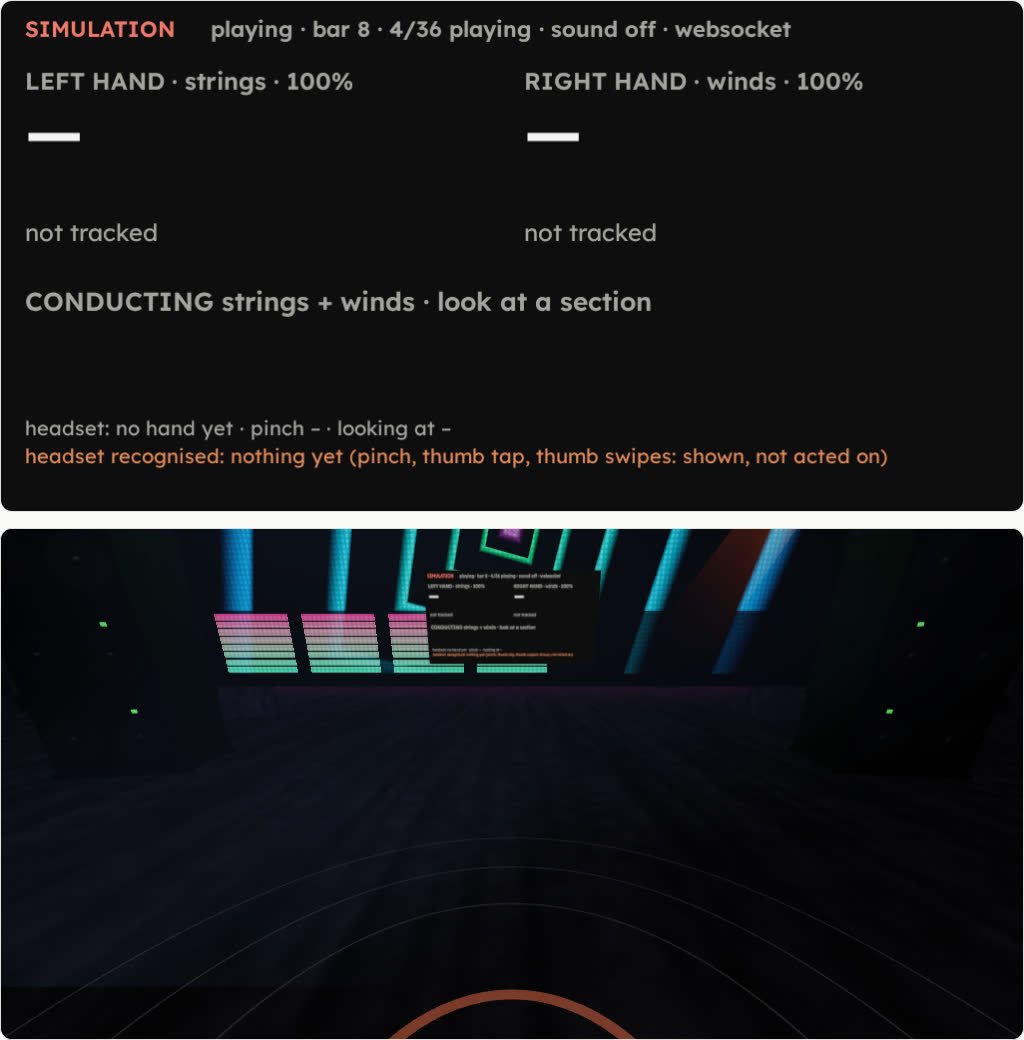
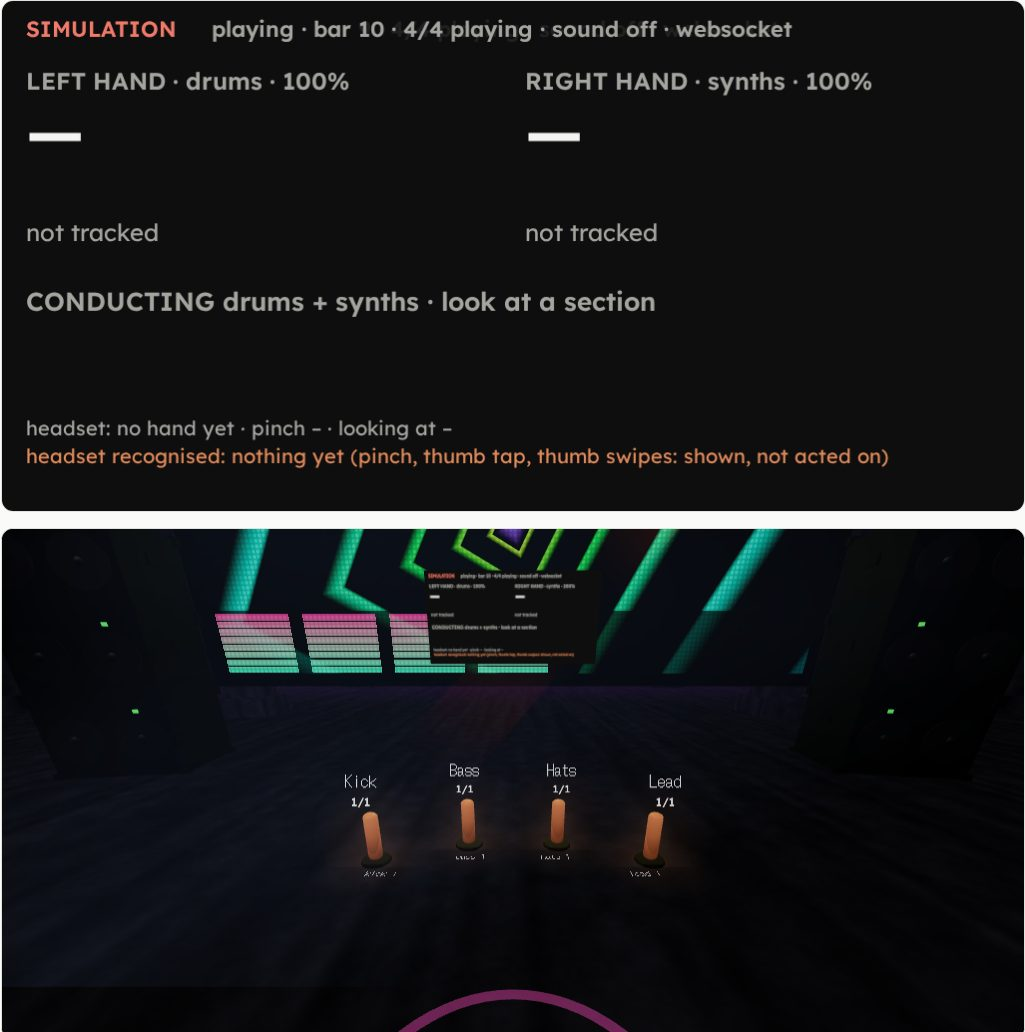
Let the conductor's page take its seats, groups and world from the service
The rave's /hands page showed the orchestra: the three rows on the floor,
"strings" and "winds" for the hands, "4/36 playing", and no lantern for
the four chairs, because room.js and hands.js carried the orchestra's
seating chart, groups and total. The page now reads them from the service:
GET /api/score carries each section's family and the seating chart (the
orchestra's, moved into its config.json; the rave has none and the page
stands its sections on one arc ahead, the band), GET /api/hands names the
groups a hand conducts (the families: drums and synths in the rave) and
the world the page shows when its URL names none (the rave). The rows on
the floor are drawn for the rows the chart seats, so the rave has none.
The panel counts the chairs the state has. The orchestra's page is
unchanged, checked headless on both services; the rave's screenshot in
docs is the fixed page.

diff --git a/examples/orchestra/score-service/static/hands.js b/examples/orchestra/score-service/static/hands.js
@@ -12,16 +12,21 @@ import { rave } from "/static/rave.js";
 const $ = (id) => document.getElementById(id);
 const panel = $("panel"), ctx = panel.getContext("2d");
 const HOLD_MS = 300, SIDES = ["left", "right"];
-const GROUP = { left: "strings", right: "winds" };
+let groups = { left: "strings", right: "winds", both: "all" };  // the groups a hand conducts: the service's (GET /api/hands), these until it answers
 const steady = new Steady(HOLD_MS);
 let live = { left: null, right: null }, last = null, orchestra = null, xr = null, dirty = true;
 let soundOn = false, soundAt = -1, soundState = "off", heightAt = 0;
-const SECTIONS = { strings: ["vn1", "vn2", "va", "vc", "cb"], winds: ["ob", "hn"] };
-let gains = { strings: 1, winds: 1 }, instruments = [];
+const SECTIONS = {};  // each group's sections: the instruments' (GET /api/hands) and each family's (the state)
+let gains = {}, instruments = [];
 // The instruments and their slices of the arc, as the service has them.
 fetch("/api/hands").then((r) => r.json()).then((v) => {
   instruments = v.instruments || [];
   for (const i of instruments) { SECTIONS[i.id] = i.sections; gains[i.id] = 1; }
+  if (v.groups) groups = { ...groups, ...v.groups };
+  // the service's world when the URL names none (the rave's page is the rave)
+  if (v.world && !params.get("world") && $("world").querySelector(`option[value="${v.world}"]`)) { $("world").value = v.world; if (preview) setWorld(v.world); }
+  hint();
+  draw();
 }).catch(() => {});
 const instrumentAt = (aim) => (aim == null ? null : instruments.find((i) => i.from <= aim && aim < i.to) || null);
 const params = new URLSearchParams(location.search), preview = params.get("view") === "1";
@@ -29,6 +34,10 @@ if (params.get("sim") === "1") document.body.classList.add("simulate");
 if (params.get("world")) $("world").value = params.get("world");  // ?world=zen|meadow|room picks what is around the orchestra
 
 // --- the panel ------------------------------------------------------------
+
+function hint() {
+  $("hint").textContent = `Look at a section: your gestures act on it. A short pinch locks it, another frees it. Nothing selected: left hand ${groups.left}, right hand ${groups.right}. Both hands: everyone.`;
+}
 
 function draw() {
   const w = panel.width, h = panel.height, ink = "#F4F4F2", muted = "#A5A5A0", copper = "#E08A5A", red = "#F07B6B";
@@ -40,13 +49,13 @@ function draw() {
   ctx.fillText("SIMULATION", 24, 18);
   ctx.fillStyle = muted;
   const o = orchestra;
-  ctx.fillText((o ? `${o.status}${o.status === "playing" ? ` · bar ${o.bar}${o.countIn ? ` · count-in ${o.countIn}` : ""} · ${o.playing}/36 playing` : ""}` : "orchestra: …") + ` · sound ${soundState} · ${link}`, 210, 18);
+  ctx.fillText((o ? `${o.status}${o.status === "playing" ? ` · bar ${o.bar}${o.countIn ? ` · count-in ${o.countIn}` : ""} · ${o.playing}/${o.total} playing` : ""}` : "orchestra: …") + ` · sound ${soundState} · ${link}`, 210, 18);
   SIDES.forEach((side, i) => {
     const x = 24 + i * 500, read = last?.read?.[side], jev = last?.jev?.answers?.[side], m = live[side];
     ctx.fillStyle = muted;
     ctx.font = "600 24px Lexend, sans-serif";
-    const tgt = target(), group = tgt ? tgt.id : GROUP[side];
-    ctx.fillText(`${side.toUpperCase()} HAND · ${tgt ? tgt.name : GROUP[side]} · ${Math.round(100 * (gains[group] ?? 1))}%`, x, 70);
+    const tgt = target(), group = tgt ? tgt.id : groups[side];
+    ctx.fillText(`${side.toUpperCase()} HAND · ${tgt ? tgt.name : groups[side]} · ${Math.round(100 * (gains[group] ?? 1))}%`, x, 70);
     ctx.font = "600 64px Lexend, sans-serif";
     ctx.fillStyle = read && read !== "nothing" ? copper : ink;
     ctx.fillText(read ? read.toUpperCase() : "—", x, 104);
@@ -63,7 +72,7 @@ function draw() {
   ctx.font = "600 26px Lexend, sans-serif";
   const tgt = target();
   ctx.fillStyle = tgt ? copper : muted;
-  ctx.fillText(tgt ? `CONDUCTING ${tgt.name.toUpperCase()}${sel.locked ? " · LOCKED (pinch to free)" : " · as you look (pinch to lock)"}` : "CONDUCTING strings + winds · look at a section", 24, 290);
+  ctx.fillText(tgt ? `CONDUCTING ${tgt.name.toUpperCase()}${sel.locked ? " · LOCKED (pinch to free)" : " · as you look (pinch to lock)"}` : `CONDUCTING ${groups.left} + ${groups.right} · look at a section`, 24, 290);
   ctx.font = "26px Lexend, sans-serif";
   let y = 326;
   if (last?.applied) {
@@ -160,7 +169,11 @@ async function recheck(at) {
 // sent and already showed.
 let busAt = null;
 function apply(s) {
-  orchestra = { status: s.status, bar: s.bar, countIn: s.countIn, playing: s.sections.reduce((n, x) => n + x.playing, 0) };
+  orchestra = { status: s.status, bar: s.bar, countIn: s.countIn, playing: s.sections.reduce((n, x) => n + x.playing, 0),
+    total: s.sections.reduce((n, x) => n + x.chairs.length, 0) };
+  const families = {};  // a family's sections, as the state names them: a hand's group
+  for (const x of s.sections) (families[x.family || "all"] = families[x.family || "all"] || []).push(x.id);
+  Object.assign(SECTIONS, families, { all: s.sections.map((x) => x.id) });
   for (const [group, ids] of Object.entries(SECTIONS)) {  // a group's gain: its chairs', as the service set them
     const chairs = s.sections.filter((x) => ids.includes(x.id)).flatMap((x) => x.chairs);
     if (chairs.length) gains[group] = chairs.reduce((n, c) => n + (c.gain ?? 1), 0) / chairs.length;

diff --git a/examples/orchestra/score-service/static/room.js b/examples/orchestra/score-service/static/room.js
@@ -12,17 +12,11 @@ export { THREE };
 const HEX = { text: "#F4F4F2", muted: "#A3A39E", accent: "#E08A5A", warn: "#E8B45A", bad: "#F07B6B", idle: "#A3A39E", line: "#5A5A5E" };
 const C = Object.fromEntries(Object.entries(HEX).map(([k, v]) => [k, new THREE.Color(v)]));
 
-// Where each section sits, in metres before the room's scale: 0° to the
-// conductor's right, 90° straight ahead, rows at radii from the podium.
-const SEATING = {
-  vn1: { from: 166, to: 134, rows: [2.5, 3.3], per: [5, 5], label: [152, 4.15] },
-  vn2: { from: 123, to: 103, rows: [2.5, 3.3], per: [4, 4], label: [118, 4.7] },
-  va: { from: 77, to: 57, rows: [2.5, 3.3], per: [3, 3], label: [62, 4.7] },
-  vc: { from: 50, to: 22, rows: [2.5, 3.3], per: [3, 2], label: [42, 4.25] },
-  cb: { from: 30, to: 8, rows: [4.15], per: [3], label: [22, 4.95] },
-  ob: { from: 105, to: 95, rows: [4.2], per: [2], label: [100, 5.0] },
-  hn: { from: 85, to: 75, rows: [4.2], per: [2], label: [80, 5.0] },
-};
+// Where each section sits comes from the service (GET /api/score, seating):
+// degrees from the podium, 0° to the conductor's right, 90° straight ahead,
+// rows at radii in metres before the room's scale. A section the service
+// gives no seat stands on one arc ahead with the others like it: the band.
+const BAND = { radius: 4.0, span: 80, label: 0.7 };
 const polar = (r, deg) => { const a = (deg * Math.PI) / 180; return new THREE.Vector3(r * Math.cos(a), 0, -r * Math.sin(a)); };
 
 // What a lantern looks like per state: height, how bright, which colour.
@@ -110,14 +104,7 @@ export class Hall {
     this.score = null;
     this.snap = 0;
     this.lastCutAt = null;
-    // the rows as faint arcs on the floor, from 10° to 170°
-    const arc = new THREE.MeshBasicMaterial({ color: C.line, transparent: true, opacity: 0.55, side: THREE.DoubleSide, depthWrite: false });
-    for (const r of [2.5, 3.3, 4.15]) {
-      const ring = new THREE.Mesh(new THREE.RingGeometry(r - 0.012, r + 0.012, 160, 1, Math.PI / 18, Math.PI * 16 / 18), arc);
-      ring.rotation.x = -Math.PI / 2;
-      ring.position.y = 0.002;
-      this.root.add(ring);
-    }
+    this.arcMat = new THREE.MeshBasicMaterial({ color: C.line, transparent: true, opacity: 0.55, side: THREE.DoubleSide, depthWrite: false });
     this.ring = new THREE.Mesh(new THREE.RingGeometry(0.5, 0.56, 64), new THREE.MeshBasicMaterial({ color: C.accent, transparent: true, opacity: 0,
       blending: THREE.AdditiveBlending, depthWrite: false, side: THREE.DoubleSide }));
     this.ring.rotation.x = -Math.PI / 2;
@@ -133,10 +120,27 @@ export class Hall {
     this.root.visible = true;
   }
 
+  // The seats: the service's chart where it has one, else one arc ahead for the rest.
+  plans(state) {
+    const chart = (this.score && this.score.seating) || {}, plans = {};
+    const loose = state.sections.filter((s) => !(chart[s.id] && chart[s.id].rows));
+    for (const s of state.sections) if (!loose.includes(s)) plans[s.id] = chart[s.id];
+    const total = loose.reduce((n, s) => n + Math.max(1, s.chairs.length), 0);
+    let at = 90 + BAND.span / 2;
+    for (const s of loose) {
+      const w = (BAND.span * Math.max(1, s.chairs.length)) / total, a = at - w * 0.15, b = at - w * 0.85;
+      plans[s.id] = { from: a, to: b, rows: [BAND.radius], per: [Math.max(1, s.chairs.length)], label: [(a + b) / 2, BAND.radius + BAND.label], loose: true };
+      at -= w;
+    }
+    return plans;
+  }
+
   build(state) {
+    const plans = this.plans(state), radii = [];
     for (const section of state.sections) {
-      const plan = SEATING[section.id];
+      const plan = plans[section.id];
       if (!plan) continue;
+      if (!plan.loose) for (const r of plan.rows) if (!radii.some((x) => Math.abs(x - r) < 0.1)) radii.push(r);
       let i = 0;
       plan.rows.forEach((r, row) => {
         const n = plan.per[row];
@@ -181,6 +185,13 @@ export class Hall {
       s.position.set(mid.x, 0.85, mid.z);
       this.root.add(s);
       this.sections[section.id] = { sprite: s, name: section.name, total: section.chairs.length, playing: -1, by: null, lit: null, subText: null };
+    }
+    // the rows as faint arcs on the floor, from 10° to 170°: the ones the chart seats
+    for (const r of radii) {
+      const ring = new THREE.Mesh(new THREE.RingGeometry(r - 0.012, r + 0.012, 160, 1, Math.PI / 18, Math.PI * 16 / 18), this.arcMat);
+      ring.rotation.x = -Math.PI / 2;
+      ring.position.y = 0.002;
+      this.root.add(ring);
     }
   }
 

diff --git a/examples/orchestra/score-service/static/hands.html b/examples/orchestra/score-service/static/hands.html
@@ -36,13 +36,15 @@
      the service as native messages and act on it too. ?sim=1 adds buttons
      that send made-up postures, marked simulated, to try the path without
      a headset; ?view=1 shows the orchestra and the panel on this screen; ?world=aurora|rave|zen|meadow|room
-     picks what is around the orchestra;
+     picks what is around the orchestra; the groups a hand conducts, the
+     seats and the default world come from the service (GET /api/hands,
+     GET /api/score): the same page serves the orchestra and the rave;
      ?scale= sizes the orchestra to the room (default 0.6: the front row
      1.5 m away). Reached from the headset
      as http://localhost:8790/hands through adb reverse. -->
 <div class="sim">SIMULATION</div>
 <main>
-  <div class="title"><b>Conduct with your hands.</b> <span class="muted">Look at a section: your gestures act on it. A short pinch locks it, another frees it. Nothing selected: left hand strings, right hand winds. Both hands: everyone.</span></div>
+  <div class="title"><b>Conduct with your hands.</b> <span class="muted" id="hint">Look at a section: your gestures act on it. A short pinch locks it, another frees it. Nothing selected: left hand strings, right hand winds. Both hands: everyone.</span></div>
   <table>
     <tr><th>Gesture</th><th>Who reads it</th><th>Does</th></tr>
     <tr><td>palm up, hand flat</td><td>Jev</td><td>come in, loud (f)</td></tr>
@@ -62,7 +64,7 @@
   </table>
   <div class="row">
     <button class="go" id="enter" disabled>Checking WebXR…</button>
-    <label><input type="checkbox" id="sound" checked> the orchestra's sound in the headset</label>
+    <label><input type="checkbox" id="sound" checked> the sound in the headset</label>
     <label>around you: <select id="world">
       <option value="aurora" selected>a mirror lake under the aurora</option>
       <option value="rave">a rave in an abandoned factory</option>

diff --git a/examples/orchestra/rave-service/server.py b/examples/orchestra/rave-service/server.py
@@ -98,12 +98,22 @@ def local_event(rave, body):
     return {"applied": bus.apply(rave, event), "event": event}
 
 
+def hands_view(rave):
+    """What the page asks first (GET /api/hands): no hands here; the groups a hand conducts (the families, left and right),
+    the instruments by section (each a slice of the arc ahead) and the world the page shows when its URL names none."""
+    families = list(dict.fromkeys(s["family"] for s in rave.sections.values()))
+    n = len(rave.sections)
+    return {"last": None, "source": "none: the rave has no hands yet; the page conducts nothing here", "dryRun": True, "history": [],
+            "world": "rave",
+            "groups": {"left": families[0] if families else "all", "right": families[1] if len(families) > 1 else "all", "both": "all"},
+            "instruments": [{"id": sid, "name": s["name"], "sections": [sid], "from": 180 * i // n, "to": 180 * (i + 1) // n}
+                            for i, (sid, s) in enumerate(rave.sections.items())]}
+
+
 def make_handler(rave, stream, config):
     label = config["label"]
     score_json = json.dumps(rave.score()).encode()
-    hands_json = json.dumps({"last": None, "source": "none: the rave has no hands yet; the page conducts nothing here", "dryRun": True, "history": [],
-                             "instruments": [{"id": sid, "name": s["name"], "sections": [sid], "from": 180 * i // len(rave.sections), "to": 180 * (i + 1) // len(rave.sections)}
-                                             for i, (sid, s) in enumerate(rave.sections.items())]}).encode()
+    hands_json = json.dumps(hands_view(rave)).encode()
     per_chair = {c: chair_tools(rave, c, config["listen"]["maxSeconds"]) for c in rave.chairs}
 
     def state_now(version=None, wait=20):

diff --git a/examples/orchestra/score-service/orchestra.py b/examples/orchestra/score-service/orchestra.py
@@ -62,6 +62,7 @@ class Orchestra:
         self.fork_spread = phrases.get("forkSpreadBeats", 8)
         voices = config.get("voices", {})
         self.sections = {s["id"]: s for s in config["sections"]}
+        self.seating = {k: v for k, v in (config.get("seating") or {}).items() if isinstance(v, dict) and "rows" in v}
         self.chairs, channel, index = {}, 0, 0
         for s in config["sections"]:
             total, low, high = s["chairs"], *(s.get("pan") or [0.0, 0.0])
@@ -286,11 +287,11 @@ class Orchestra:
                 if on:
                     counts[min(self.score.bar_of(tick), self.score.bars) - 1] += 1
             top = max(counts) or 1
-            out.append({"id": sid, "name": s["name"], "density": [round(c / top, 2) for c in counts]})
+            out.append({"id": sid, "name": s["name"], "family": s["family"], "density": [round(c / top, 2) for c in counts]})
         lines = [{"id": line, "name": self.score.line_names[line], "chairs": [k for k, c in self.chairs.items() if c["line"] == line],
                   "phrases": table} for line, table in self.score.phrase_table.items()]
         return {"bars": self.score.bars, "beatsPerBar": self.score.beats_per_bar, "phraseBars": self.score.phrase_bars,
-                "sections": out, "lines": lines}
+                "sections": out, "lines": lines, "seating": self.seating}
 
     def snapshot(self):
         with self.cond:

diff --git a/examples/orchestra/rave-service/test_rave_service.py b/examples/orchestra/rave-service/test_rave_service.py
@@ -289,6 +289,18 @@ class StateForTheHands(unittest.TestCase):
         self.assertEqual((score["beatsPerBar"], score["phraseBars"], len(score["sections"])), (4, 8, 4))
         self.assertGreater(score["bars"], 1000)
 
+    def test_the_page_gets_the_raves_groups_its_world_and_no_chart(self):
+        import server
+        rave, _ = make()
+        score = rave.score()
+        self.assertEqual(score["seating"], {})  # no chart: the page stands the band on one arc ahead
+        self.assertEqual([s["family"] for s in score["sections"]], ["drums", "synths", "drums", "synths"])
+        view = server.hands_view(rave)
+        self.assertEqual(view["groups"], {"left": "drums", "right": "synths", "both": "all"})
+        self.assertEqual(view["world"], "rave")
+        self.assertEqual([i["id"] for i in view["instruments"]], ["kick", "bass", "hats", "lead"])
+        self.assertEqual((view["instruments"][0]["from"], view["instruments"][-1]["to"]), (0, 180))
+
     def test_the_version_moves_once_a_bar_so_the_page_resyncs(self):
         rave, _ = make()
         rave.play("kick-1", pattern="kick-1")

diff --git a/examples/orchestra/score-service/test_score_service.py b/examples/orchestra/score-service/test_score_service.py
@@ -604,3 +604,20 @@ class DoneForAFixedProgram(unittest.TestCase):
         out = o.listen("ob-1", bars=8, max_seconds=1)
         self.assertEqual(("done" in out, "faded" in out), (False, True))
         self.assertNotIn("done", o.phrases("ob-1"))
+
+
+class TheScoreForThePage(unittest.TestCase):
+    """GET /api/score: what room.js seats and hands.js groups come from the service, not the page."""
+
+    def test_each_section_has_its_family_and_its_seat(self):
+        o, _, _ = orchestra()
+        d = o.density()
+        chairs = {x["id"]: x["chairs"] for x in CONFIG["sections"]}
+        self.assertEqual({s["id"] for s in d["sections"]}, set(chairs))
+        self.assertEqual({s["id"] for s in d["sections"]}, set(d["seating"]))
+        for s in d["sections"]:
+            self.assertIn(s["family"], ("strings", "winds"))
+            plan = d["seating"][s["id"]]
+            self.assertEqual(len(plan["rows"]), len(plan["per"]))
+            self.assertGreaterEqual(sum(plan["per"]), chairs[s["id"]], s["id"])
+            self.assertEqual(len(plan["label"]), 2)

diff --git a/examples/orchestra/rave-service/rave.py b/examples/orchestra/rave-service/rave.py
@@ -262,7 +262,8 @@ class Rave:
     def score(self):
         """What the pages read once: the bars (a set has no end), the beats per bar, the phrase, the sections, the library."""
         return {"bars": 1000000, "beatsPerBar": BEATS_PER_BAR, "phraseBars": self.phrase_bars,
-                "sections": [{"id": sid, "name": s["name"], "density": []} for sid, s in self.sections.items()],
+                "sections": [{"id": sid, "name": s["name"], "family": s["family"], "density": []} for sid, s in self.sections.items()],
+                "seating": {},  # no chart: the page stands the band on one arc ahead, in the order of the sections
                 "lines": [{"id": role, "name": self.sections[role]["name"] if role in self.sections else role,
                            "chairs": [k for k, c in self.chairs.items() if c["role"] == role],
                            "patterns": [{"id": e["id"], "name": e["name"], "energy": e["energy"], "code": e["code"]} for e in entries]}

diff --git a/examples/orchestra/rave-service/README.md b/examples/orchestra/rave-service/README.md
@@ -76,7 +76,7 @@ python3 demo.py --seconds 60 --rotate               # four bots, a cue, a stop.a
 
 With a control plane: `--control-plane https://127.0.0.1:7879 --team rave` and the chairs registered in the team `rave` (a team exists while a bot names it): the orchestra's [`chairs/`](../chairs/) templates work with the mission's words changed and the URL `/mcp/<chair>` on this port; that run was not made.
 
-Python 3.12 standard library only; Node 24 for the two Strudel processes. The page is the orchestra's, unchanged: `http://127.0.0.1:8794/hands?world=rave` on the headset over `adb reverse`, `&view=1` to look without one.
+Python 3.12 standard library only; Node 24 for the two Strudel processes. The page is the orchestra's: `http://127.0.0.1:8794/hands` on the headset over `adb reverse`, `?view=1` to look without one. What the page shows is the service's: `GET /api/hands` names the world (`rave`) and the groups a hand conducts (`drums`, `synths`), `GET /api/score` seats the band (no chart: one arc ahead, the four lanterns), so nothing of the orchestra (its rows, its strings and winds, its 36) is on the rave's page.
 
 ## Check
 
@@ -112,7 +112,7 @@ The evaluator: 0.1 s for a batch (Node starts, Strudel loads in 40 ms), `bd*1e9`
 | four roles, candidates by energy, Jev's question in the orchestra's shape | works; the choice in the demo is the script's, not Jev's |
 | swap at the next bar, patterns loop, `<a b>` in step | works, measured; a pattern that goes on is extended past its 128-bar horizon (tested with a short horizon) |
 | `info.cue.*`, `info.tempo`, `stop.<role>` (fade), `stop.all` (mute) | works through `/api/event` and in the bus tests; **not run against the control plane** (the team `rave` would need its bots registered) |
-| `/api/state`, `/api/score`, `/ws/hands` for the orchestra's `/hands` page | the fields the page reads are there (tested); the page renders the rave world over it (headless Chromium, swiftshader) |
+| `/api/state`, `/api/score`, `/api/hands`, `/ws/hands` for the orchestra's `/hands` page | the fields the page reads are there (tested); the page renders the rave world over it with the four chairs as the band and none of the orchestra (headless Chromium, swiftshader, 31 Oct) |
 | real AXLR chairs on nodes, Jev choosing | not run: the demo's bots are the script |
 | the conductor's hands (Jev reading postures, gains by height) | not here: `/ws/hands` answers every posture "nothing"; the rave has no hands yet |
 | a pattern's effects (`delay`, `room`) across a `stop.all` | the output stays muted until the next cue, so no tail sounds; a cue within a second of the stop would hear the end of a delay |
